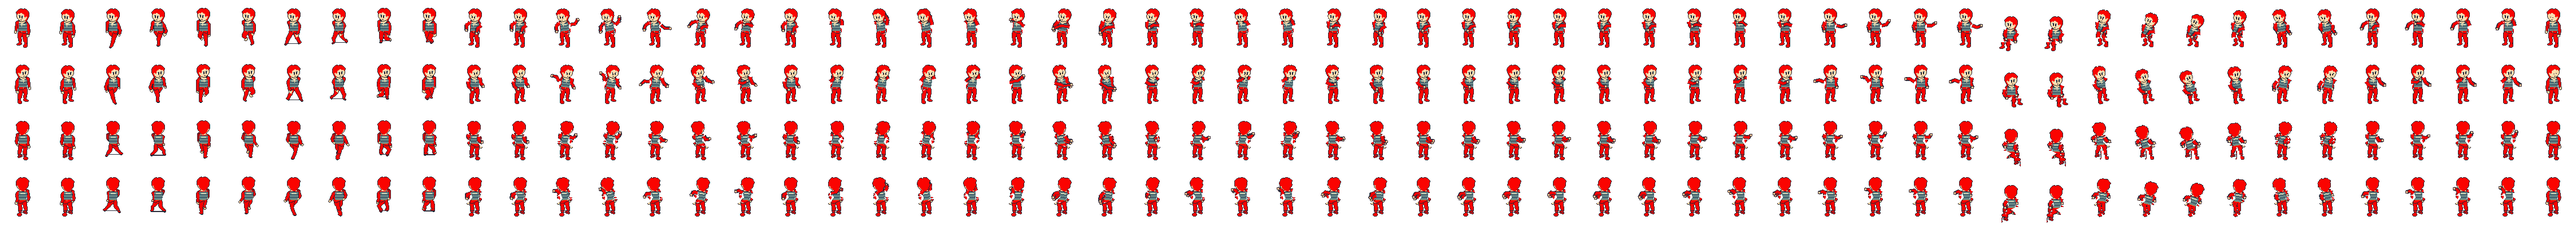
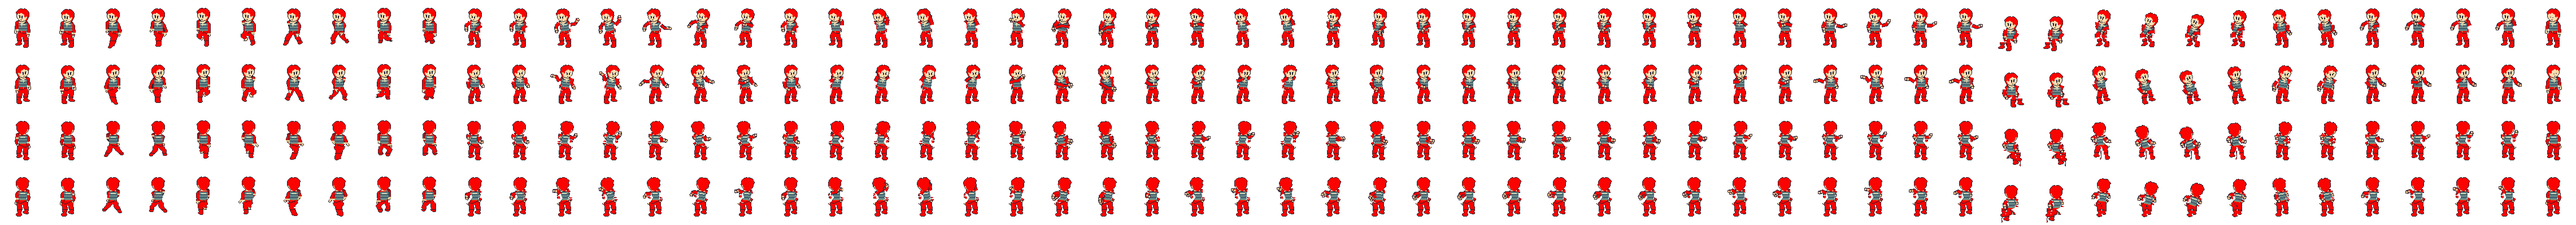
Fix carried sword placement and strengthen adventurer clothing silhouette

diff --git a/pocket-lobby/public/character-art.js b/pocket-lobby/public/character-art.js
@@ -46,6 +46,25 @@ function drawTool(ctx,kind,angle,x,y){
   }
   ctx.restore();
 }
+export function carriedTowerEquipment(metadata,x,y,options={}){
+  const selection=towerCharacterPose(metadata,options),side=options.direction==='left'?1:-1;
+  const native=selection.detail.carry??[metadata.pivot[0]+side*13,43];
+  const anchor={x:x+(native[0]-metadata.pivot[0])*metadata.scale,y:y+(native[1]-metadata.pivot[1])*metadata.scale,angle:side*.42,side};
+  if(options.weaponTier==='quickDagger'){anchor.y+=11;anchor.x+=side;anchor.angle=side*.24;}
+  if(options.weaponTier==='huntingSpear'){anchor.y+=15;anchor.x+=side*4;anchor.angle=side*.12;}
+  return anchor;
+}
+function drawCarriedEquipment(ctx,kind,anchor){
+  if(kind==='huntingSpear'){drawTool(ctx,kind,anchor.angle,anchor.x,anchor.y);return;}
+  const p=(x,y,w,h,color)=>{ctx.fillStyle=color;ctx.fillRect(x,y,w,h);};
+  const length=kind==='quickDagger'?8:14;
+  ctx.save();ctx.translate(anchor.x,anchor.y);ctx.rotate(anchor.angle);
+  // Grip at the shoulder, enclosed blade pointing down along the back.
+  p(-1,-4,3,6,'#302d3b');p(0,-3,1,4,'#a77d55');p(-1,-5,3,1,'#d4b779');
+  p(-3,1,7,2,'#453c3e');p(-2,1,5,1,kind==='wardenSword'?'#f0ce7f':'#c6a66e');
+  p(-1,3,3,length,'#292b38');p(0,3,2,length-1,'#745a46');p(0,4,1,length-3,'#a1845a');p(-1,length+2,3,2,'#b79861');
+  ctx.restore();
+}
 export function createTowerCharacterRenderer({metadata,atlases,createCanvas=(width,height)=>{const canvas=document.createElement('canvas');canvas.width=width;canvas.height=height;return canvas;}}){
   const meta=metadata,cache=new Map(),[width,height]=meta.cell;
   function frameImage(appearance,selection,vest){
@@ -68,9 +87,11 @@ export function createTowerCharacterRenderer({metadata,atlases,createCanvas=(wid
   function draw(ctx,x,y,appearance={},options={}){
     const selection=towerCharacterPose(meta,options),image=frameImage(appearance,selection,options.vest);
     const [gx,gy]=grip(x,y,options);ctx.save();ctx.imageSmoothingEnabled=false;
-    if(options.sheathed&&!options.weapon){drawTool(ctx,options.weaponTier,-.5,x-4,y-20);}
+    const carried=options.sheathed&&!options.weapon?carriedTowerEquipment(meta,x,y,options):null;
+    if(carried&&!options.back)drawCarriedEquipment(ctx,options.weaponTier,carried);
     if(options.weapon&&options.back)drawTool(ctx,options.weaponTier,selection.detail.toolAngle,gx,gy);
     ctx.drawImage(image,Math.round(x-meta.pivot[0]*meta.scale),Math.round(y-meta.pivot[1]*meta.scale),width*meta.scale,height*meta.scale);
+    if(carried&&options.back)drawCarriedEquipment(ctx,options.weaponTier,carried);
     if(options.weapon&&!options.back)drawTool(ctx,options.weaponTier,selection.detail.toolAngle,gx,gy);
     ctx.restore();return selection;
   }
